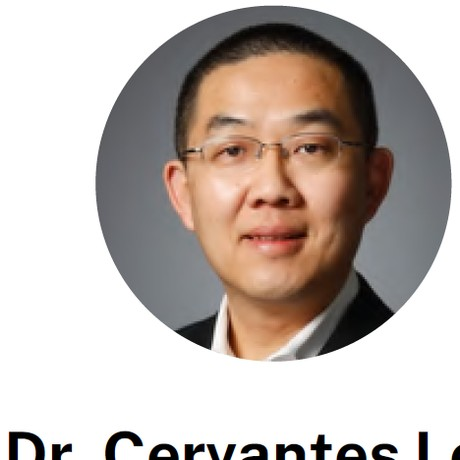
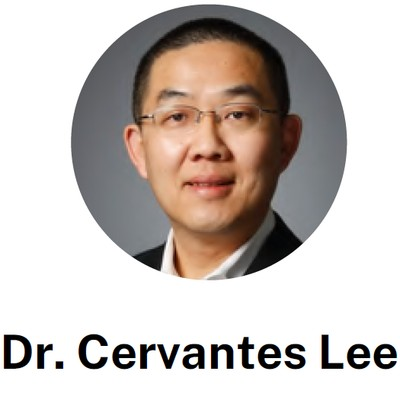
feat: add "What You Gain" section and update partner details layout

diff --git a/components/brand-lab-content.tsx b/components/brand-lab-content.tsx
@@ -19,6 +19,7 @@ import {
 import { useReveal } from "@/hooks/use-reveal"
 import { Navbar } from "@/components/navbar"
 import { Footer } from "@/components/footer"
+import { WhatYouGain } from "@/components/what-you-gain"
 import { brandLabPeople, ecosystemLogos } from "@/data/partners"
 
 const APPLY_URL = "https://airtable.com/appV77FGcaF0S6aPI/pagIWmNbVo1shEyuQ/form"
@@ -68,7 +69,7 @@ const selection = [
     label: "Stage",
     accent: false,
     value: "Ideation through market-ready product",
-    note: "Every company is screened for program fit and growth potential.",
+    note: "From first concept to shelf-ready — all early stages welcome.",
   },
   {
     label: "Traction",
@@ -271,7 +272,71 @@ export function BrandLabContent() {
           </div>
         </section>
 
-        {/* ════════ 3. WHO WE SELECT (the cohort) ════════ */}
+        {/* ════════ 3. WHAT YOU GAIN — five-stage journey ════════ */}
+        <WhatYouGain />
+
+        {/* ════════ 4. PARTNERS ALREADY IN THE BRAND LAB ════════ */}
+        <section className="px-6 py-20 sm:px-10 lg:py-28">
+          <div className="mx-auto max-w-6xl">
+            <div className="reveal text-center">
+              <span className="mb-4 inline-flex items-center gap-2 text-xs font-semibold uppercase tracking-widest text-primary">
+                <Handshake className="h-3.5 w-3.5" />
+                Partners
+              </span>
+              <h2 className="font-display text-4xl font-bold tracking-tight text-foreground sm:text-5xl">
+                Partners Already in the Brand Lab
+              </h2>
+              <p className="mx-auto mt-5 max-w-2xl text-base leading-relaxed text-muted-foreground lg:text-lg">
+                Confirmed partners contributing expertise, market access, and hands-on support to the
+                Brand Lab cohort.
+              </p>
+            </div>
+
+            {/* People grid */}
+            <div className="mt-16 grid grid-cols-2 gap-x-6 gap-y-12 sm:grid-cols-3 lg:grid-cols-5">
+              {brandLabPeople.map((person, i) => (
+                <div
+                  key={person.name}
+                  className={`reveal reveal-delay-${(i % 4) + 1} flex flex-col items-center text-center`}
+                >
+                  <div className="h-24 w-24 overflow-hidden rounded-full shadow-lg shadow-primary/10 ring-1 ring-border">
+                    <img
+                      src={person.photo || "/placeholder.svg"}
+                      alt={person.name}
+                      className="h-full w-full object-cover"
+                    />
+                  </div>
+                  <h3 className="mt-4 font-display text-base font-bold text-foreground">
+                    {person.name}
+                  </h3>
+                  <p className="mt-1 text-xs font-medium uppercase tracking-wide text-muted-foreground">
+                    {person.role}
+                  </p>
+                </div>
+              ))}
+            </div>
+
+            {/* Logo wall */}
+            <div className="reveal mt-20 border-t border-border pt-14">
+              <div className="flex flex-wrap items-center justify-center gap-x-10 gap-y-6">
+                {ecosystemLogos.map((logo) => (
+                  <span
+                    key={logo}
+                    className="font-display text-lg font-semibold text-muted-foreground/70 transition-colors duration-300 hover:text-foreground sm:text-xl"
+                  >
+                    {logo}
+                  </span>
+                ))}
+              </div>
+              <p className="mx-auto mt-12 max-w-2xl text-center text-xs leading-relaxed text-muted-foreground">
+                Logos indicate collaborators in the Sunstone ecosystem. Relationships are
+                non-exclusive and do not imply endorsement of the Brand Lab.
+              </p>
+            </div>
+          </div>
+        </section>
+
+        {/* ════════ 5. WHO WE SELECT (the cohort) ════════ */}
         <section className="border-y border-border bg-muted/30 px-6 py-20 sm:px-10 lg:py-28">
           <div className="mx-auto max-w-6xl">
             <div className="reveal text-center">
@@ -342,67 +407,14 @@ export function BrandLabContent() {
                 </div>
               ))}
             </div>
+
+            <p className="reveal reveal-delay-2 mx-auto mt-12 max-w-2xl text-center text-base leading-relaxed text-muted-foreground">
+              Every company is screened for program fit, market readiness, and growth potential.
+            </p>
           </div>
         </section>
 
-        {/* ════════ 4. PARTNERS ALREADY IN THE BRAND LAB ════════ */}
-        <section className="px-6 py-20 sm:px-10 lg:py-28">
-          <div className="mx-auto max-w-6xl">
-            <div className="reveal text-center">
-              <span className="mb-4 inline-flex items-center gap-2 text-xs font-semibold uppercase tracking-widest text-primary">
-                <Handshake className="h-3.5 w-3.5" />
-                Partners
-              </span>
-              <h2 className="font-display text-4xl font-bold tracking-tight text-foreground sm:text-5xl">
-                Partners Already in the Brand Lab
-              </h2>
-              <p className="mx-auto mt-5 max-w-2xl text-base leading-relaxed text-muted-foreground lg:text-lg">
-                Confirmed partners contributing expertise, market access, and hands-on support to the
-                Brand Lab cohort.
-              </p>
-            </div>
-
-            {/* People grid */}
-            <div className="mt-16 grid grid-cols-2 gap-x-6 gap-y-12 sm:grid-cols-3 lg:grid-cols-5">
-              {brandLabPeople.map((person, i) => (
-                <div
-                  key={person.name}
-                  className={`reveal reveal-delay-${(i % 4) + 1} flex flex-col items-center text-center`}
-                >
-                  <div className="flex h-24 w-24 items-center justify-center rounded-full bg-primary font-display text-2xl font-bold text-primary-foreground shadow-lg shadow-primary/20">
-                    {person.initials}
-                  </div>
-                  <h3 className="mt-4 font-display text-base font-bold text-foreground">
-                    {person.name}
-                  </h3>
-                  <p className="mt-1 text-xs font-medium uppercase tracking-wide text-muted-foreground">
-                    {person.role}
-                  </p>
-                </div>
-              ))}
-            </div>
-
-            {/* Logo wall */}
-            <div className="reveal mt-20 border-t border-border pt-14">
-              <div className="flex flex-wrap items-center justify-center gap-x-10 gap-y-6">
-                {ecosystemLogos.map((logo) => (
-                  <span
-                    key={logo}
-                    className="font-display text-lg font-semibold text-muted-foreground/70 transition-colors duration-300 hover:text-foreground sm:text-xl"
-                  >
-                    {logo}
-                  </span>
-                ))}
-              </div>
-              <p className="mx-auto mt-12 max-w-2xl text-center text-xs leading-relaxed text-muted-foreground">
-                Logos indicate collaborators in the Sunstone ecosystem. Relationships are
-                non-exclusive and do not imply endorsement of the Brand Lab.
-              </p>
-            </div>
-          </div>
-        </section>
-
-        {/* ════════ 5. COMMUNITY PHOTO BAND ════════ */}
+        {/* ════════ 6. COMMUNITY PHOTO BAND ════════ */}
         <section className="reveal overflow-hidden">
           <div className="grid grid-cols-3 gap-0.5">
             {GALLERY_IMGS.map((src, i) => (
